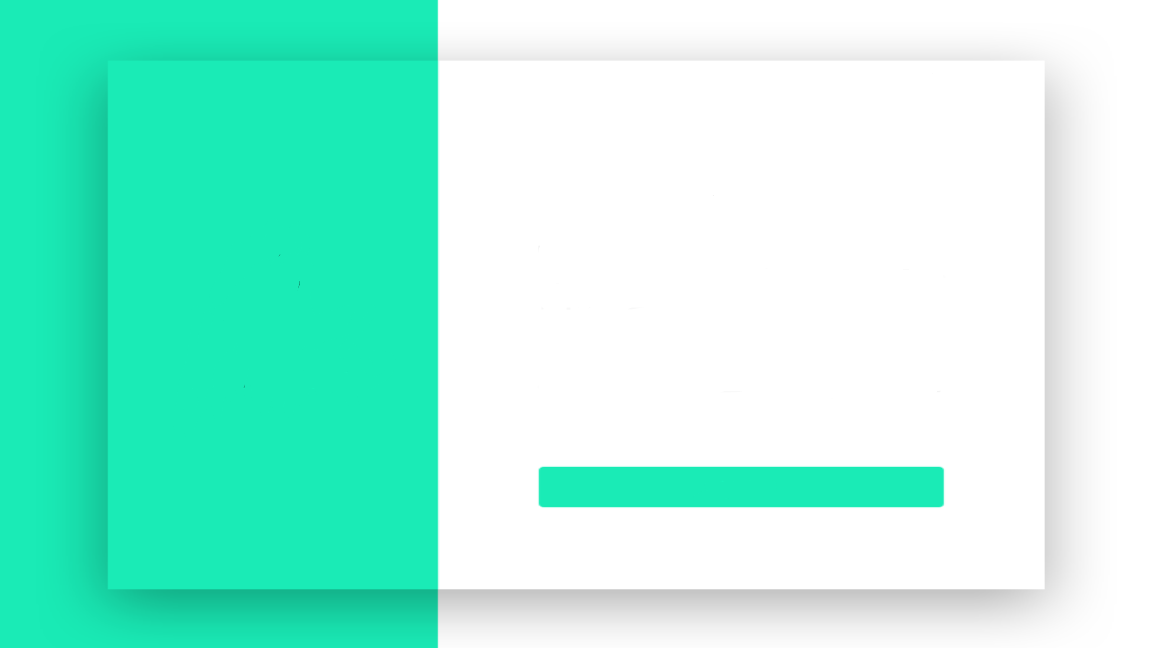
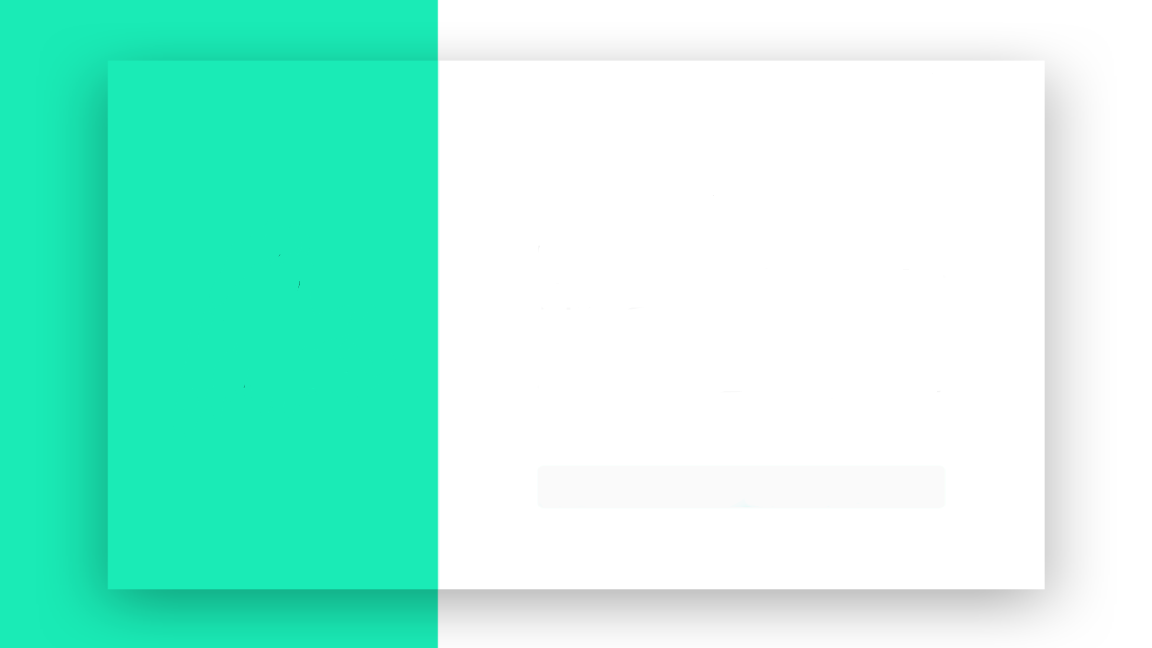
changed the color of the buttons on the login pages

Changed region(s): [[0.4688, 0.7099, 0.8438, 0.8025]]

diff --git a/GUI/Pages/LogIn.xaml b/GUI/Pages/LogIn.xaml
@@ -13,14 +13,14 @@
         <Label Content="RemoteSync" HorizontalAlignment="Left" Margin="204,363,0,0" VerticalAlignment="Top" FontSize="22" FontWeight="Bold" FontStyle="Italic" Height="54" Width="151"/>
         <Image HorizontalAlignment="Left" Height="168" Margin="187,192,0,0" VerticalAlignment="Top" Width="172" Source="/GUI;component/Images/project-management.png"/>
         <Label Content="Log In" HorizontalAlignment="Left" Height="64" Margin="630,130,0,0" VerticalAlignment="Top" Width="174" FontSize="25" FontWeight="Bold"/>
-        
+
         <Label Content="Username" HorizontalAlignment="Left" Height="35" Margin="560,257,0,0" VerticalAlignment="Top" Width="98" FontWeight="Bold" FontSize="17"/>
         <TextBox x:Name="Username" HorizontalAlignment="Left" Height="34" Margin="560,292,0,0" Text="Enter your Username" Opacity="0.5" TextWrapping="Wrap" VerticalAlignment="Top" Width="314" SelectionOpacity="1" FontSize="17" TextChanged="UsernameBox_TextChanged" PreviewMouseDown="UsernameTextBox_MouseDown"/>
         <Label Content="Password" HorizontalAlignment="Left" Height="36" Margin="560,331,0,0" VerticalAlignment="Top" Width="98" FontWeight="Bold" FontSize="17"/>
         <TextBox x:Name="Password" HorizontalAlignment="Left" Height="32" Margin="560,367,0,0" Text="Enter your Password" Opacity="0.5" TextWrapping="Wrap" VerticalAlignment="Top" Width="314" FontSize="17" TextChanged="PasswordBox_TextChanged" PreviewMouseDown="PasswordTextBox_MouseDown"/>
 
         <Button x:Name="ForgotPassword" Content="forgot password?" HorizontalAlignment="Left" Margin="734,404,0,0" VerticalAlignment="Top" Width="140" FontSize="17" Background="{x:Null}" BorderBrush="{x:Null}" Click="ForgotPassword_Click"/>
-        <Button Content="Login" HorizontalAlignment="Left" Height="44" Margin="560,506,0,0" VerticalAlignment="Top" Width="424" Background="Transparent" BorderBrush="{x:Null}" FontSize="17" Click="LogIn_Click"/>
+        <Button Content="Login" HorizontalAlignment="Left" Height="44" Margin="560,506,0,0" VerticalAlignment="Top" Width="424" BorderBrush="{x:Null}" FontSize="17" Click="LogIn_Click" Background="#FF1AEBB6"/>
         <Button Content="Dosen't have an account? Sign Up" HorizontalAlignment="Left" Height="25" Margin="792,550,0,0" VerticalAlignment="Top" Width="192" Background="Transparent" BorderBrush="{x:Null}" Click="SignUp_Click"/>
     </Grid>
 </Page>

diff --git a/GUI/Pages/SignUp.xaml b/GUI/Pages/SignUp.xaml
@@ -14,8 +14,8 @@
         <Label Content="RemoteSync" HorizontalAlignment="Left" Margin="204,363,0,0" VerticalAlignment="Top" FontSize="22" FontWeight="Bold" FontStyle="Italic" Height="54" Width="151"/>
         <Image HorizontalAlignment="Left" Height="168" Margin="187,192,0,0" VerticalAlignment="Top" Width="172" Source="/GUI;component/Images/project-management.png"/>
         <Label Content="Sign Up" HorizontalAlignment="Left" Height="64" Margin="630,130,0,0" VerticalAlignment="Top" Width="174" FontSize="25" FontWeight="Bold"/>
-        
-        <Button Content="SignUp" HorizontalAlignment="Left" Height="44" Margin="560,505,0,0" VerticalAlignment="Top" Width="424" Click="SignUp_Click" Background="Transparent" BorderBrush="{x:Null}" FontSize="17"/>
+
+        <Button Content="SignUp" HorizontalAlignment="Left" Height="44" Margin="560,505,0,0" VerticalAlignment="Top" Width="424" Click="SignUp_Click" Background="#FF1AEBB6" BorderBrush="{x:Null}" FontSize="17"/>
         <Label Content="Email" HorizontalAlignment="Left" Height="35" Margin="560,257,0,0" VerticalAlignment="Top" Width="87" FontWeight="Bold" FontSize="17"/>
         <TextBox Name="Email" HorizontalAlignment="Left" Height="34" Margin="560,292,0,0" Text="example@email.com" Opacity="0.5" TextWrapping="Wrap" VerticalAlignment="Top" Width="314" SelectionOpacity="1" FontSize="17" TextChanged="EmailTextBox_TextChanged" PreviewMouseDown="EmailTextBox_MouseDown"/>
         <Label Content="Password" HorizontalAlignment="Left" Height="36" Margin="560,326,0,0" VerticalAlignment="Top" Width="98" FontWeight="Bold" FontSize="17"/>

diff --git a/GUI/Pages/Verify.xaml b/GUI/Pages/Verify.xaml
@@ -14,7 +14,7 @@
         <Label Content="RemoteSync" HorizontalAlignment="Left" Margin="204,363,0,0" VerticalAlignment="Top" FontSize="22" FontWeight="Bold" FontStyle="Italic" Height="54" Width="151"/>
         <Image HorizontalAlignment="Left" Height="168" Margin="187,192,0,0" VerticalAlignment="Top" Width="172" Source="/GUI;component/Images/project-management.png"/>
         <Label Content="Verfiy" HorizontalAlignment="Left" Height="64" Margin="600,192,0,0" VerticalAlignment="Top" Width="174" FontSize="25" FontWeight="Bold"/>
-        <Button Content="Enter" HorizontalAlignment="Left" Height="44" Margin="560,505,0,0" VerticalAlignment="Top" Width="424" Click="Enter_Click" Background="Transparent" BorderBrush="{x:Null}" FontSize="17"/>
+        <Button Content="Enter" HorizontalAlignment="Left" Height="44" Margin="560,505,0,0" VerticalAlignment="Top" Width="424" Click="Enter_Click" Background="#FF1AEBB6" BorderBrush="{x:Null}" FontSize="17"/>
         
         <Label Content="Please enter your code" HorizontalAlignment="Left" Margin="562,276,0,0" VerticalAlignment="Top" FontWeight="Bold" FontSize="17"/>
         <TextBox Name="Code" HorizontalAlignment="Left" Margin="567,314,0,0" TextWrapping="Wrap" Text="your code" Opacity="0.5" FontSize="17" VerticalAlignment="Top" Width="120" TextChanged="Code_TextChanged" PreviewMouseDown="Code_MouseDown"/>

diff --git a/GUI/Pages/ForgotPassword.xaml b/GUI/Pages/ForgotPassword.xaml
@@ -22,6 +22,6 @@
         <Label Content="New password" HorizontalAlignment="Left" Height="36" Margin="560,363,0,0" VerticalAlignment="Top" Width="157" FontWeight="Bold" FontSize="17"/>
         <TextBox x:Name="NewPassword" HorizontalAlignment="Left" Height="32" Margin="560,399,0,0" Text="new password" Opacity="0.5" TextWrapping="Wrap" VerticalAlignment="Top" Width="314" FontSize="17" TextChanged="NewPasswordTextBox_TextChanged" PreviewMouseDown="NewPasswordTextBox_MouseDown"/>
 
-        <Button Content="Reset password" HorizontalAlignment="Left" Height="44" Margin="560,506,0,0" VerticalAlignment="Top" Width="424" Background="Transparent" BorderBrush="{x:Null}" FontSize="17" Click="ResetPassword_Click"/>
+        <Button Content="Reset password" HorizontalAlignment="Left" Height="44" Margin="560,506,0,0" VerticalAlignment="Top" Width="424" Background="#FF1AEBB6" BorderBrush="{x:Null}" FontSize="17" Click="ResetPassword_Click"/>
     </Grid>
 </Page>
